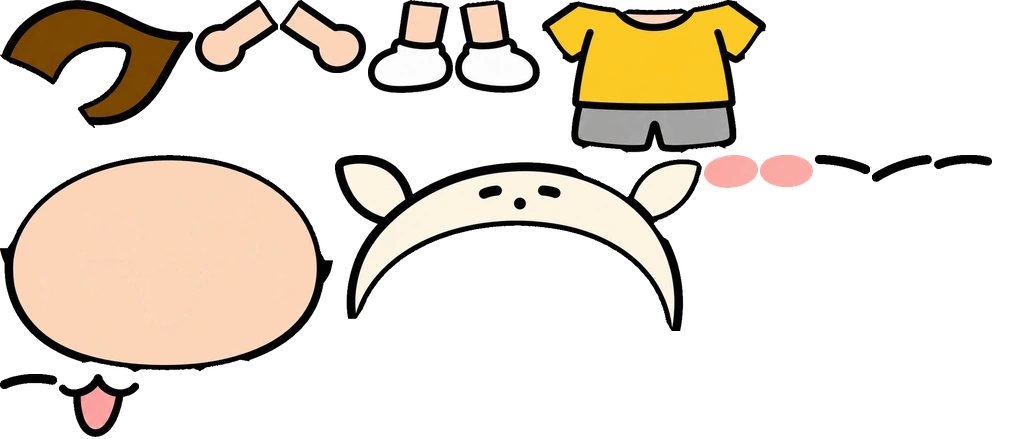
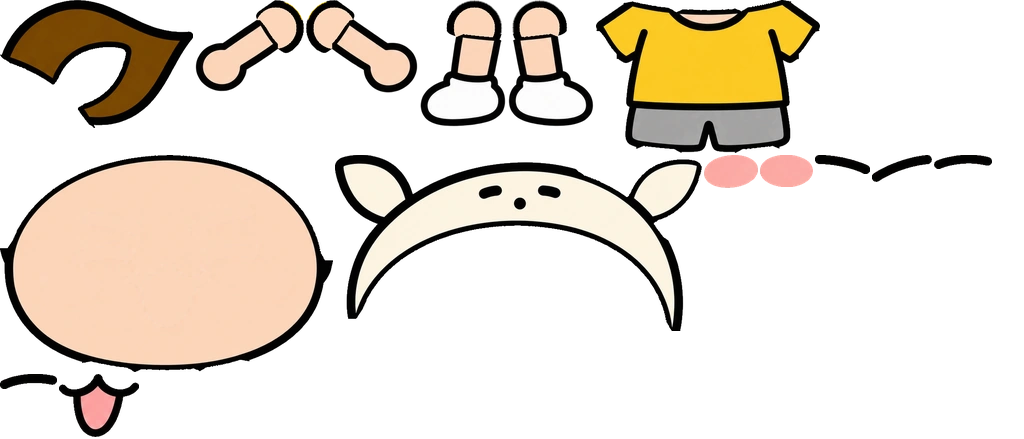
関節に丸い受け（球体関節）を入れて、隙間と切り口を消す
手足を回すと、切り口の平らな縁（輪郭線なし）がそのまま見えていた。
円は回しても形が変わらないので、付け根に円を足せばどの角度でも
隙間が出ない——切り絵リグの定石をそのまま入れた。

- 受けの半径は「シルエットに完全に収まる最大の円」を探して決定（46px）。
  回転の軸も円の中心に移した（脚は股に寄って、振りも自然になった）
- ふちには絵と同じ太さ（14px）の黒い輪郭線を足す。手足の本体にかかる
  ところだけ線を抜くので、出ていく向きだけ線が切れて球体関節に見える
- 腕±95度・脚±30度・胴のひねりまで振って、隙間が出ないことを確認
- naru.webp 55KB → 60KB

Claude-Session: https://claude.ai/code/session_01VxsroR5Rmvk9VYvHMYN3ph

Changed region(s): [[0.1875, 0.0, 0.8125, 0.3554]]

diff --git a/index.html b/index.html
@@ -5,7 +5,7 @@
 <meta name="viewport" content="width=device-width, initial-scale=1.0, viewport-fit=cover, user-scalable=no">
 <title>なるねぇといっしょ｜笑けるダイエット育成</title>
 <meta name="theme-color" content="#FFD400">
-<link rel="preload" as="image" href="naru.webp?v=9dadb705">
+<link rel="preload" as="image" href="naru.webp?v=acf4009e">
 <link rel="apple-touch-icon" href="icon.png?v=4a07dc6c">
 <link rel="icon" href="icon.png?v=4a07dc6c">
 <meta name="apple-mobile-web-app-capable" content="yes">
@@ -1179,8 +1179,8 @@ function showTag(text, evo){
    関節でつないで、角度を毎フレーム計算して動かす。
    だから「コマ数」という概念自体がなくなって、どんな速度でも滑らか。
    ============================================================ */
-var ATLAS = {"cw":432.0,"ch":549.45,"aw":1024,"ah":439,"piv":{"head":[182.7,311.4],"pony":[258.3,108.9],"armL":[80.55,351.9],"armR":[277.2,352.35],"legL":[114.3,459.9],"legR":[243.9,459.9],"torso":[179.1,459.45]},"parts":[{"n":"pony","ax":0,"ay":0,"w":193,"h":128,"ox":239.4,"oy":0.0},{"n":"armL","ax":195,"ay":0,"w":83,"h":72,"ox":7.2,"oy":341.55},{"n":"armR","ax":280,"ay":0,"w":86,"h":73,"ox":268.2,"oy":341.55},{"n":"legL","ax":368,"ay":0,"w":85,"h":93,"ox":72.45,"oy":456.3},{"n":"legR","ax":455,"ay":0,"w":85,"h":93,"ox":201.6,"oy":456.3},{"n":"torso","ax":542,"ay":0,"w":224,"h":153,"ox":67.5,"oy":312.3},{"n":"face","ax":0,"ay":155,"w":333,"h":217,"ox":13.05,"oy":109.35},{"n":"hood","ax":335,"ay":155,"w":367,"h":176,"ox":0.0,"oy":40.95},{"n":"blushL","ax":704,"ay":155,"w":54,"h":33,"ox":57.6,"oy":224.1},{"n":"blushR","ax":760,"ay":155,"w":53,"h":32,"ox":250.2,"oy":221.85},{"n":"browL","ax":815,"ay":155,"w":55,"h":19,"ox":98.55,"oy":169.2},{"n":"browR","ax":872,"ay":155,"w":60,"h":27,"ox":205.2,"oy":161.55},{"n":"eyeL","ax":934,"ay":155,"w":58,"h":14,"ox":87.3,"oy":202.95},{"n":"eyeR","ax":0,"ay":374,"w":57,"h":15,"ox":213.75,"oy":200.7},{"n":"mouth","ax":59,"ay":374,"w":80,"h":63,"ox":142.2,"oy":217.35}]};
-var SPRITE_SRC = "naru.webp?v=9dadb705";
+var ATLAS = {"cw":432.0,"ch":549.45,"aw":1024,"ah":439,"piv":{"head":[182.7,311.4],"pony":[258.3,108.9],"torso":[179.1,459.45],"armL":[86.85,350.1],"armR":[270.9,350.55],"legL":[126.0,450.9],"legR":[232.2,450.9]},"parts":[{"n":"pony","ax":0,"ay":0,"w":193,"h":128,"ox":239.4,"oy":0.0},{"n":"armL","ax":195,"ay":0,"w":109,"h":92,"ox":6.3,"oy":322.2},{"n":"armR","ax":306,"ay":0,"w":112,"h":93,"ox":243.0,"oy":322.65},{"n":"legL","ax":420,"ay":0,"w":86,"h":127,"ox":71.55,"oy":423.0},{"n":"legR","ax":508,"ay":0,"w":86,"h":127,"ox":200.7,"oy":423.45},{"n":"torso","ax":596,"ay":0,"w":224,"h":153,"ox":67.5,"oy":312.3},{"n":"face","ax":0,"ay":155,"w":333,"h":217,"ox":13.05,"oy":109.35},{"n":"hood","ax":335,"ay":155,"w":367,"h":176,"ox":0.0,"oy":40.95},{"n":"blushL","ax":704,"ay":155,"w":54,"h":33,"ox":57.6,"oy":224.1},{"n":"blushR","ax":760,"ay":155,"w":53,"h":32,"ox":250.2,"oy":221.85},{"n":"browL","ax":815,"ay":155,"w":55,"h":19,"ox":98.55,"oy":169.2},{"n":"browR","ax":872,"ay":155,"w":60,"h":27,"ox":205.2,"oy":161.55},{"n":"eyeL","ax":934,"ay":155,"w":58,"h":14,"ox":87.3,"oy":202.95},{"n":"eyeR","ax":0,"ay":374,"w":57,"h":15,"ox":213.75,"oy":200.7},{"n":"mouth","ax":59,"ay":374,"w":80,"h":63,"ox":142.2,"oy":217.35}]};
+var SPRITE_SRC = "naru.webp?v=acf4009e";
 
 // パーツのDOM。描画順＝この順（後ろのものほど手前）
 var PART_ORDER = ["pony","legL","legR","armL","armR","torso","face","hood",
@@ -1597,7 +1597,7 @@ function accById(id){ for(var i=0;i<ACCS.length;i++) if(ACCS[i].id===id) return 
 function outfitById(id){ for(var i=0;i<OUTFITS.length;i++) if(OUTFITS[i].id===id) return OUTFITS[i]; return OUTFITS[0]; }
 
 /* --- 服：スプライトの色替え（Canvas）。生成した画像はメモリに置くだけ --- */
-var SPRITE_SRC = "naru.webp?v=9dadb705";
+var SPRITE_SRC = "naru.webp?v=acf4009e";
 var baseImg = null, baseData = null, spriteCache = {cheer:SPRITE_SRC};
 function hsl(r,g,b){
   r/=255;g/=255;b/=255;
@@ -2340,6 +2340,7 @@ window.__naru={ get:function(){ return S; }, set:function(o){ Object.assign(S,o)
   clean:cleanMess, evolve:function(){ S.careDays=STAGES[Math.min(4,S.stage+1)].days; return checkEvolve(); }, hatch:hatch, egg:tapEgg,
   dance:startDance, endDance:endDance, danceState:function(){ return D; }, closet:sheetCloset, wear:function(o,a){ if(o) S.outfit=o; if(a) S.acc=a; applyOutfit(); render(); save(); },
   arm:function(l,r){ POSE.__t={al:l,ar:r}; setPose("__t"); },
+  joint:function(o){ POSE.__t=o; setPose("__t"); },
   unlockAll:function(){ OUTFITS.concat(ACCS).forEach(function(i){ S.unlocked[i.id]=1; }); save(); }, unlocks:checkUnlocks, outfits:OUTFITS, accs:ACCS, stages:STAGES, cache:spriteCache };
 
 })();

diff --git a/README.md b/README.md
@@ -65,6 +65,9 @@ WebPはすでに圧縮済みなのでgzipが効かず、base64にすると33%膨
 - パーツは `ポニテ / フード / 顔 / 眉L,R / 目L,R / 口 / ほっぺL,R / 胴 / 腕L,R / 脚L,R` の15個
 - 切り分けは色で自動判定したかたまりを種にして、**黒い輪郭線を近いパーツへ分け合う**（分水嶺／`flatseg.py`）。未割当 0px で切れる
 - 切り口に白い線が出るので、各パーツを**2px太らせて隣と重ねてある**（`export2d.py`）。後ろのパーツが必ず下敷きになるので継ぎ目が消える
+- 手足の付け根には**丸い受け（球体関節）を足してある**。円は回しても形が変わらないので、どの角度でも隙間と切り口が出ない。
+  半径はシルエットに完全に収まる最大の円を探して決め（46px）、ふちには絵と同じ太さ（14px）の黒い輪郭線を足す。
+  線は手足の本体にかかるところだけ抜いてあるので、手足が出ていく向きだけ線が切れて、球体関節に見える。回転の軸もこの円の中心に置く
 - 顔から目・眉・口・ほっぺを抜いた跡は**平らな肌色で埋める**。フラット塗りなので、跡が完全に消える（3Dレンダーではこれができなかった）
 - 服の色替えは、シャツ（黄）と短パン（グレー）の画素だけを Canvas で HSL 変換する
 
